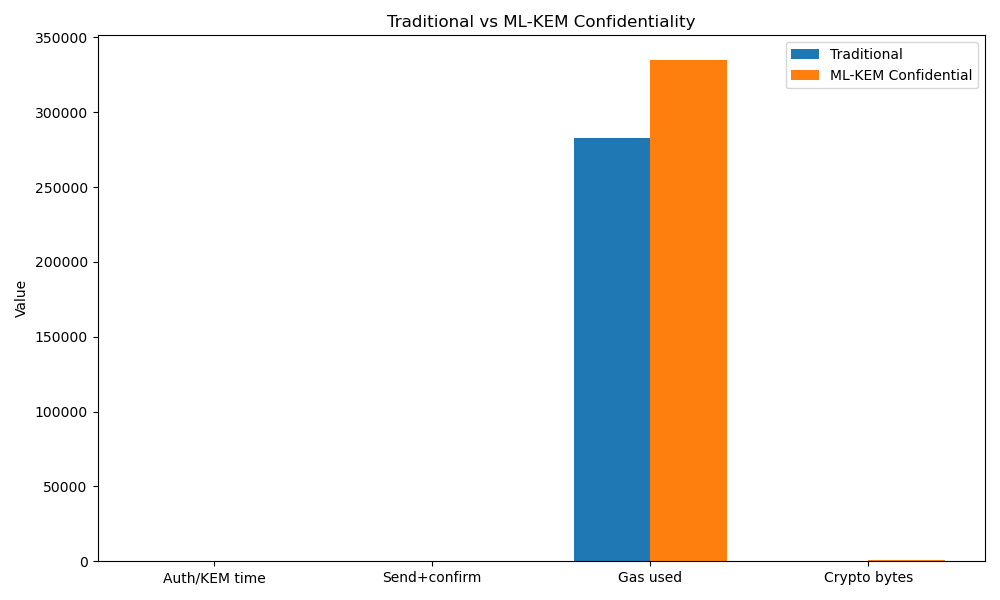
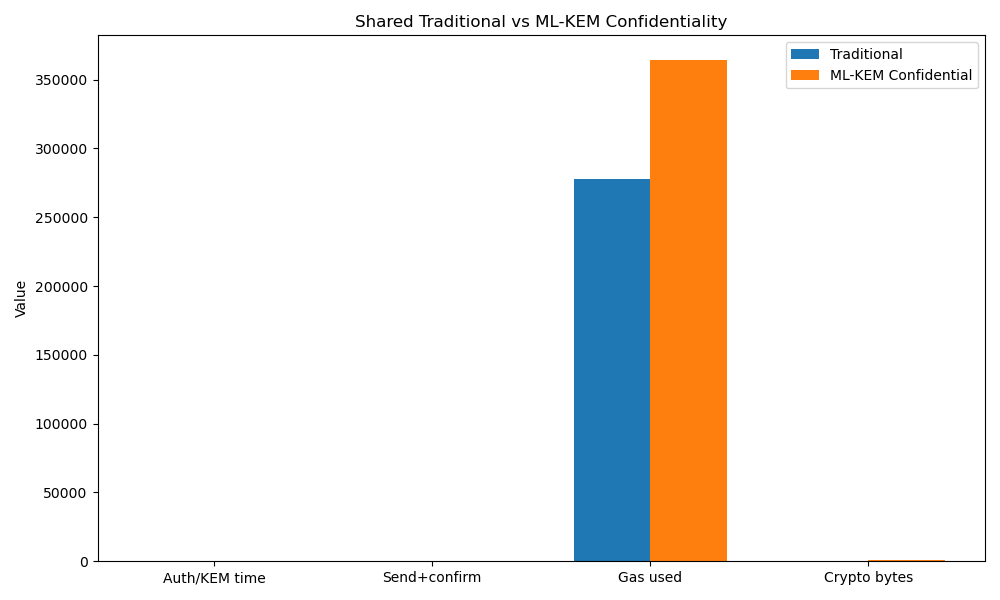
Fix kyber-kem off-chain storage ABI matching and update results

diff --git a/algorithms/kyber-kem/scripts/availability_kem_benchmark.py b/algorithms/kyber-kem/scripts/availability_kem_benchmark.py
@@ -118,6 +118,8 @@ def send_one(contract, acct, w3, mode: str, wait_timeout: int, kem) -> dict:
         app_metadata["timestamp"],
         encrypted,
         mode,
+        "",
+        kem.ALGORITHM,
     ).build_transaction(
         {
             "from": acct.address,

diff --git a/algorithms/kyber-kem/scripts/kem_confidentiality_demo.py b/algorithms/kyber-kem/scripts/kem_confidentiality_demo.py
@@ -99,6 +99,8 @@ def main() -> None:
         app_metadata["timestamp"],
         encrypted,
         mode,
+        "",
+        ml_kem_512.ALGORITHM,
     ).build_transaction(
         {
             "from": acct.address,

diff --git a/algorithms/kyber-kem/benchmark/results/availability_summary_kem.md b/algorithms/kyber-kem/benchmark/results/availability_summary_kem.md
@@ -1,6 +1,6 @@
 # Availability Summary - ML-KEM
 
-| Mode | Success | Failure | Success Rate | Avg Latency (s) | P95 (s) | P99 (s) | Throughput (tx/s) | Retries | Avg Gas |
-| --- | --- | --- | --- | --- | --- | --- | --- | --- | --- |
-| traditional | 5 | 0 | 100.0% | 11.353337 | 12.030401 | 12.150729 | 0.085285 | 0 | 248392.60 |
-| kyber_kem_confidential | 5 | 0 | 100.0% | 11.345528 | 12.161410 | 12.308016 | 0.085557 | 0 | 334573.60 |
+|Mode                  |Success|Failure|Success Rate|Avg Latency (s)|  P95 (s)  |  P99 (s)  |Throughput (tx/s)|Retries|Avg Gas|
+|----------------------|-------|-------|------------|---------------|-----------|-----------|-----------------|-------|-------|
+|traditional           | 5     | 0     | 100.0%     | 12.125454     | 13.223061 | 13.352819 | 0.079997        | 0     |277813.20 |
+|kyber_kem_confidential| 5     | 0     | 100.0%     | 13.032804     | 21.647252 | 23.526314 | 0.074189        | 0     |363909.20 |
